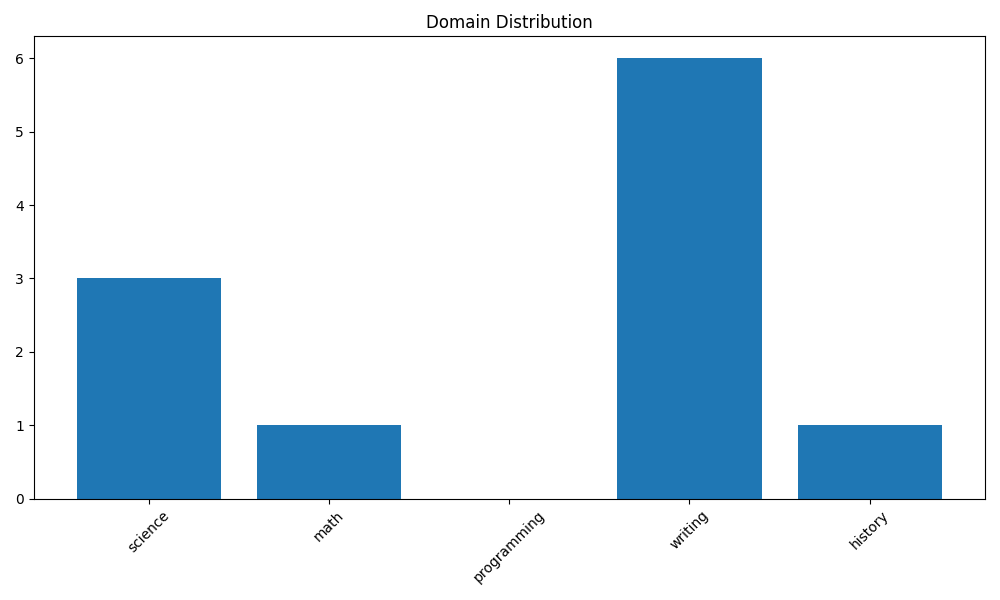
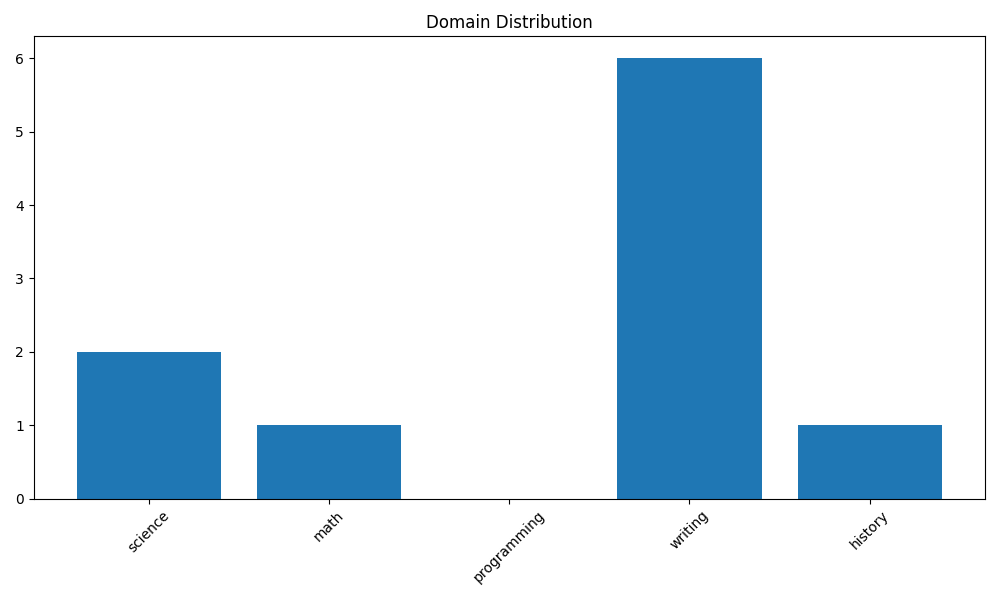
updated instruction dataset output directory

Changed region(s): [[0.062, 0.45, 0.248, 0.6]]

diff --git a/instruction-tuning/data_exploration.py b/instruction-tuning/data_exploration.py
@@ -29,7 +29,7 @@ MIN_RESPONSE_LENGTH = int(os.environ.get("MIN_RESPONSE_LENGTH", "30"))
 MIN_READABILITY_SCORE = float(os.environ.get("MIN_READABILITY_SCORE", "10"))
 
 # Create output directory
-OUTPUT_DIR = "analysis_output"
+OUTPUT_DIR = "instruction-tuning/analysis_output"
 os.makedirs(OUTPUT_DIR, exist_ok=True)
 print(f"Output will be saved to {OUTPUT_DIR}/ directory")
 

diff --git a/instruction-tuning/analysis_output/analysis_results.md b/instruction-tuning/analysis_output/analysis_results.md
@@ -3,10 +3,10 @@
 ## Basic Statistics
 
 - **total_examples**: 25
-- **avg_instruction_length**: 88.44
+- **avg_instruction_length**: 90.08
 - **max_instruction_length**: 100
 - **min_instruction_length**: 76
-- **avg_response_length**: 1136.28
+- **avg_response_length**: 1159.6
 - **max_response_length**: 1338
 - **min_response_length**: 1042
 
@@ -28,8 +28,8 @@
 ## Filtering Process
 
 - Original dataset size: 25
-- Filtered dataset size: 21
-- Percentage retained: 84.00%
+- Filtered dataset size: 19
+- Percentage retained: 76.00%
 
 ### Filtering Criteria
 
